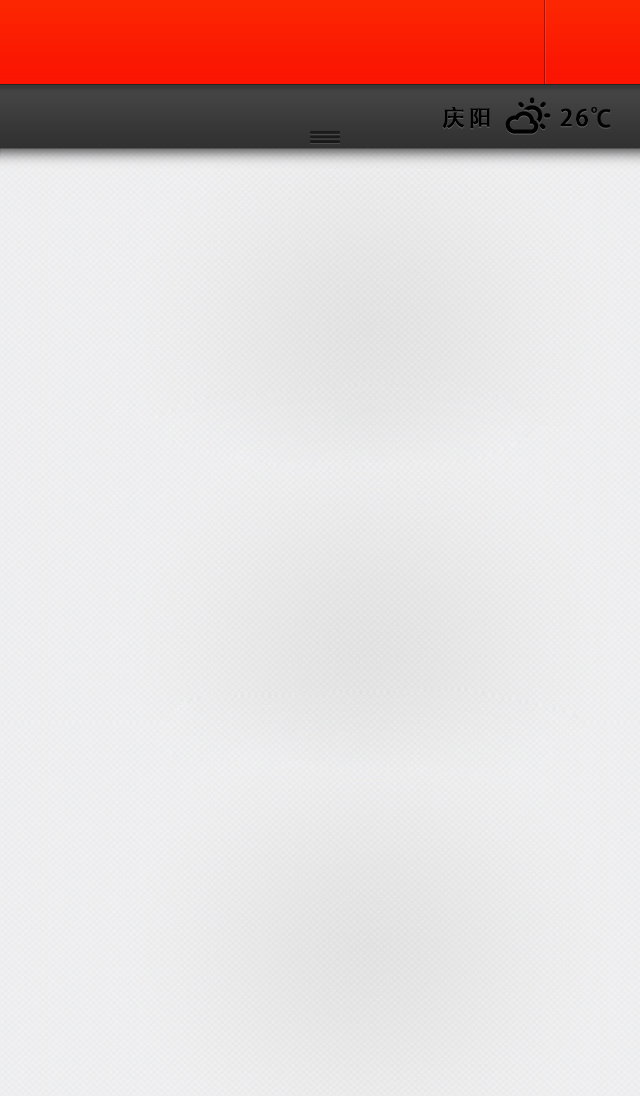
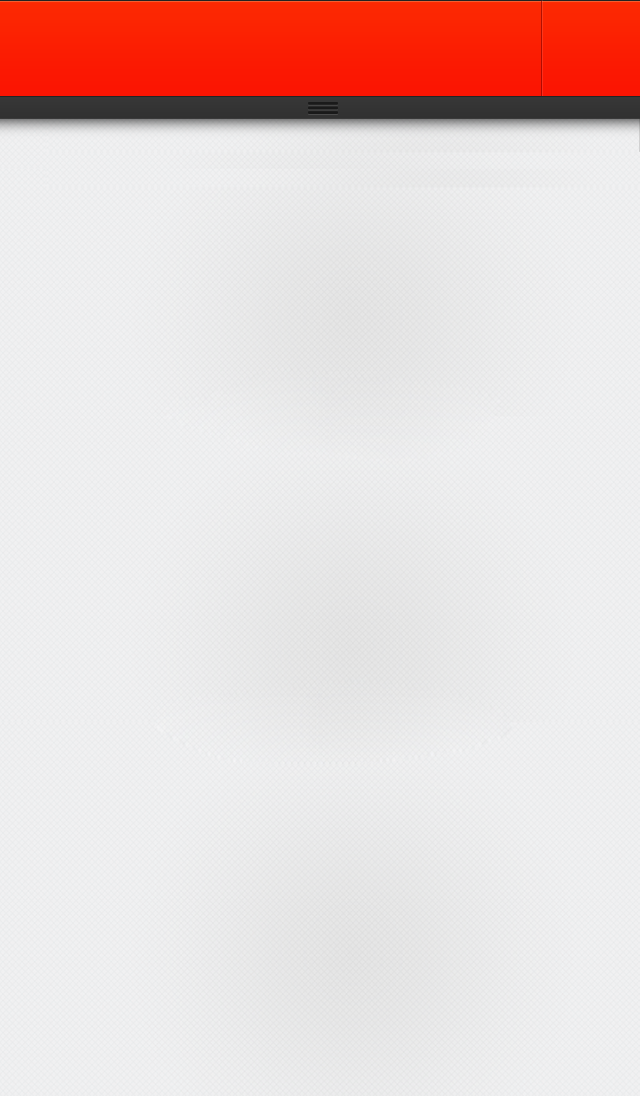
调整新闻界面 以及个页面菜单位置

Changed region(s): [[0.0, 0.0, 1.0, 0.1551]]

diff --git a/TMExam/TMNewsViewController.m b/TMExam/TMNewsViewController.m
@@ -77,8 +77,8 @@
     [super viewDidLoad];
 
     CGRect bounds = self.view.bounds;
-    bounds.origin.y += 42;
-    bounds.size.height -= 42;
+    bounds.origin.y += 60;
+    bounds.size.height -= 12;
     self.tableView = [[PullingRefreshTableView alloc] initWithFrame:bounds pullingDelegate:self];
     [self.view addSubview:self.tableView];
 
